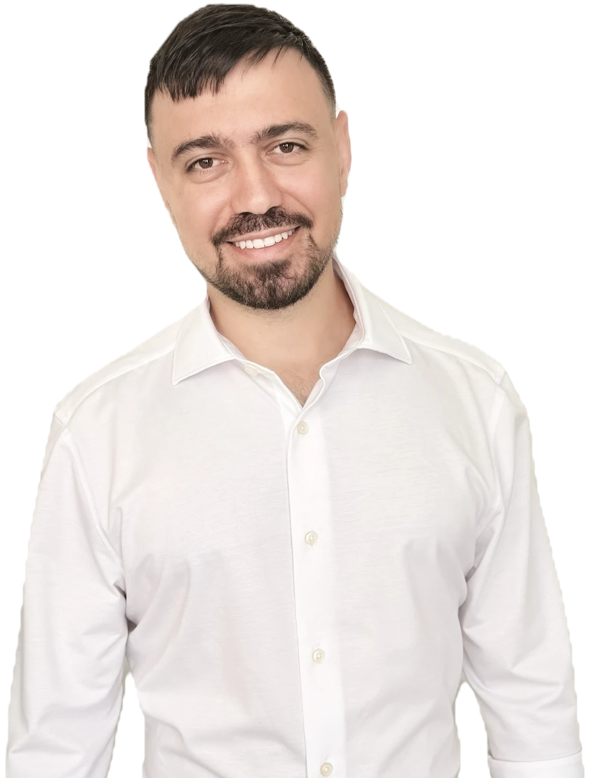
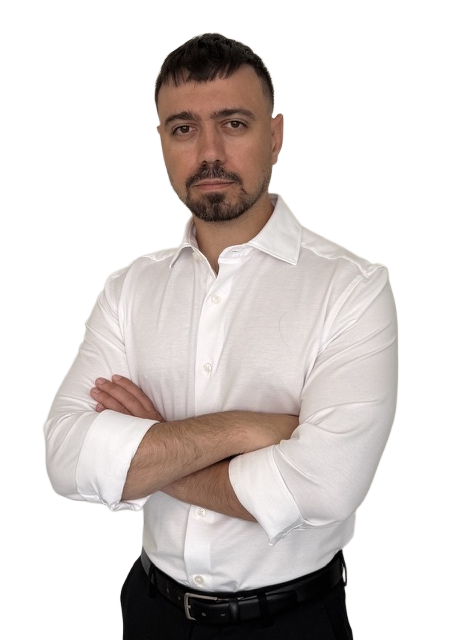
Hero: use the new arms-crossed portrait

diff --git a/src/components/Cutout.jsx b/src/components/Cutout.jsx
@@ -33,14 +33,14 @@ export default function Cutout({ className = "", eager = false }) {
       </div>
 
       <div
-        className="relative aspect-[910/1180] w-full"
+        className="relative aspect-[460/640] w-full"
         style={{ WebkitMaskImage: FADE, maskImage: FADE }}
       >
         <img
           src={profile.photo}
           alt="Oded Atias"
-          width="600"
-          height="778"
+          width="460"
+          height="640"
           decoding="async"
           loading={eager ? "eager" : "lazy"}
           fetchPriority={eager ? "high" : "auto"}
